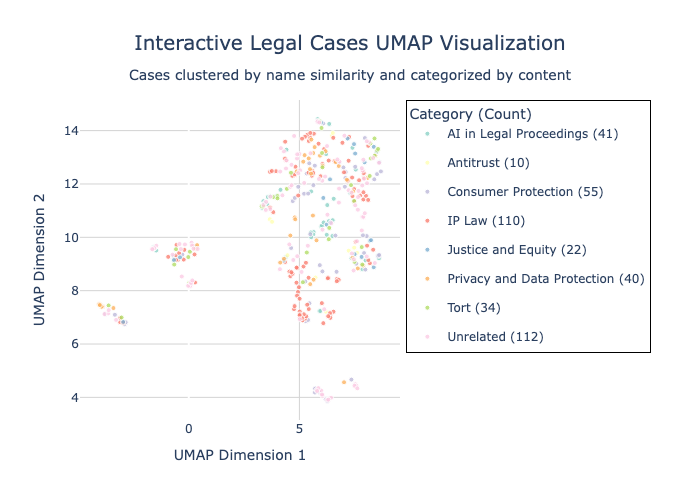
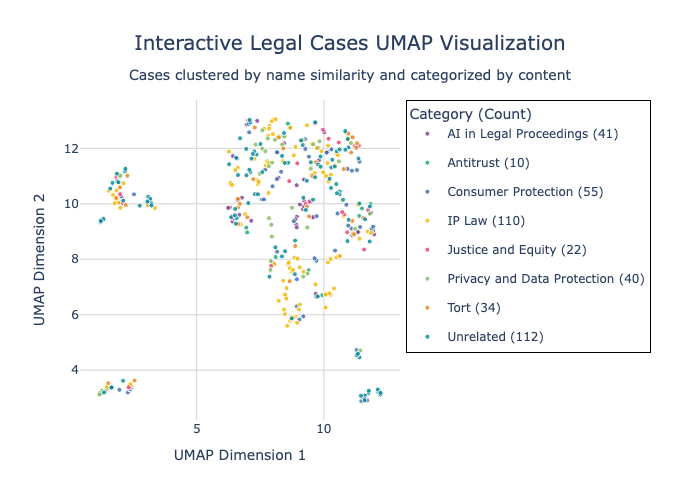
ensure all colors visible

diff --git a/legal_full_text_umap.py b/legal_full_text_umap.py
@@ -152,8 +152,7 @@ def create_interactive_visualization(embedding, categories, titles, ai_materials
     unique_base_categories = sorted(set(categories_cleaned))
 
     # Create color palette
-    colors = (px.colors.qualitative.Set3 +
-             px.colors.qualitative.Bold +
+    colors = (px.colors.qualitative.Bold +
              px.colors.qualitative.Dark24)
 
     # Map base categories to colors
